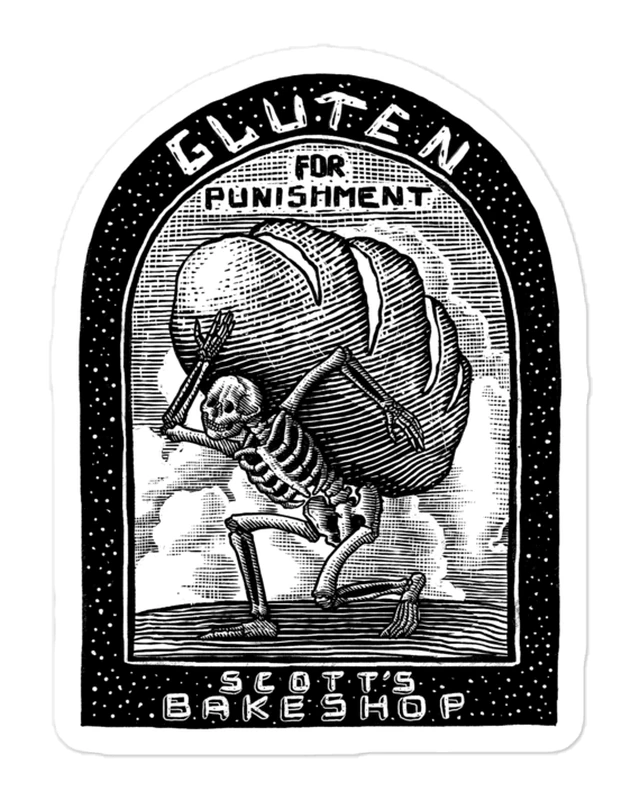
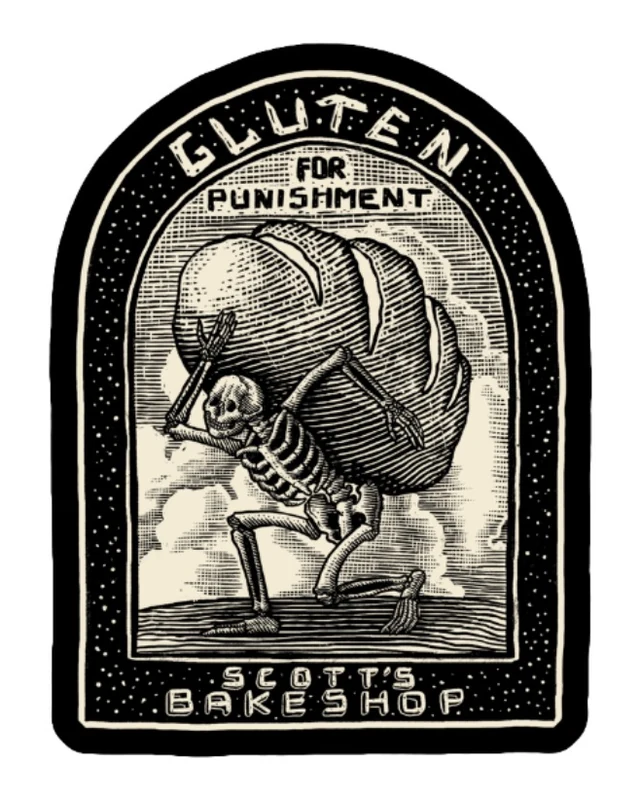
Use the black-border Gluten for Punishment sticker photos (#31)
The shop re-made the sticker in Printful with a black border (new listing
488020547, named "Gluten for Punishment Sticker"). Its photos are now the
shop's own black-border mockups (plain + laptop). The old white-border
notebook and car shots are removed, and the deleted listing's ID is
dropped from the name map.

Claude-Session: https://claude.ai/code/session_0186uXpWbSkVrqKv5TU75Gpr

diff --git a/tests/catalog.test.ts b/tests/catalog.test.ts
@@ -186,15 +186,14 @@ describe("dropDuplicateListings", () => {
 });
 
 describe("Printful ID names", () => {
-  it("names the two stickers by their confirmed design", () => {
+  it("names a sticker by its confirmed design, and by its Printful name otherwise", () => {
     const base = { sync_variants: hatSync.sync_variants };
     const lgtb = normalizeProduct({ ...base, sync_product: { id: 487916110, name: "Bubble-free stickers", thumbnail_url: null } }, null)!;
-    const gfp = normalizeProduct({ ...base, sync_product: { id: 487915950, name: "Bubble-free stickers", thumbnail_url: null } }, null)!;
+    const gfp = normalizeProduct({ ...base, sync_product: { id: 488020547, name: "Gluten for Punishment Sticker", thumbnail_url: null } }, null)!;
     expect(lgtb.name).toBe("Let\u2019s Get This Bread Sticker");
-    expect(lgtb.photosLead).toBe(true);
-    expect(gfp.name).toBe("Gluten for Punishment Sticker");
-    expect(gfp.photosLead).toBe(true);
-    expect(gfp.image).toBe("/products/sticker-gfp.webp");
     expect(lgtb.image).toBe("/products/sticker-lgtb.webp");
+    expect(gfp.name).toBe("Gluten for Punishment Sticker");
+    expect(gfp.image).toBe("/products/sticker-gfp.webp");
+    expect(gfp.photos).toEqual(["/products/sticker-gfp.webp", "/products/sticker-gfp-laptop.jpg"]);
   });
 });

diff --git a/src/lib/extra-photos.ts b/src/lib/extra-photos.ts
@@ -9,9 +9,9 @@ const EXTRA_PHOTOS: { match: RegExp; photos: string[]; lead?: boolean }[] = [
   { match: /\bhat\b|\bcap\b/i, photos: ["/products/hat-side.jpg", "/products/hat-back.jpg"] },
   { match: /\bmug\b/i, photos: ["/products/mug-front.jpg", "/products/mug-back.jpg"] },
   {
-    // Gluten for Punishment sticker mockups (kiss-cut, white border as printed).
+    // Gluten for Punishment sticker, black border (the shop's own mockups).
     match: /(gluten|punishment).*sticker|sticker.*(gluten|punishment)/i,
-    photos: ["/products/sticker-gfp.webp", "/products/sticker-gfp-laptop.jpg", "/products/sticker-gfp-notebook.jpg", "/products/sticker-gfp-car.jpg"],
+    photos: ["/products/sticker-gfp.webp", "/products/sticker-gfp-laptop.jpg"],
     lead: true,
   },
   {

diff --git a/src/lib/merch.ts b/src/lib/merch.ts
@@ -175,14 +175,13 @@ const RULES: Rule[] = [
 
 /**
  * Printful listings whose Printful name doesn't say which design they carry
- * (both stickers are "Bubble-free stickers"). Keyed by Printful sync product
+ * (the sticker was "Bubble-free stickers"). Keyed by Printful sync product
  * ID, confirmed by the shop. If a product is re-published it gets a new ID and
  * falls back to its Printful name, so renaming it in Printful (e.g. "Gluten for
  * Punishment Sticker") is the lasting fix.
  */
 export const NAME_BY_PRINTFUL_ID: Record<number, string> = {
   487916110: "Let\u2019s Get This Bread Sticker",
-  487915950: "Gluten for Punishment Sticker",
 };
 
 export interface Merch {
